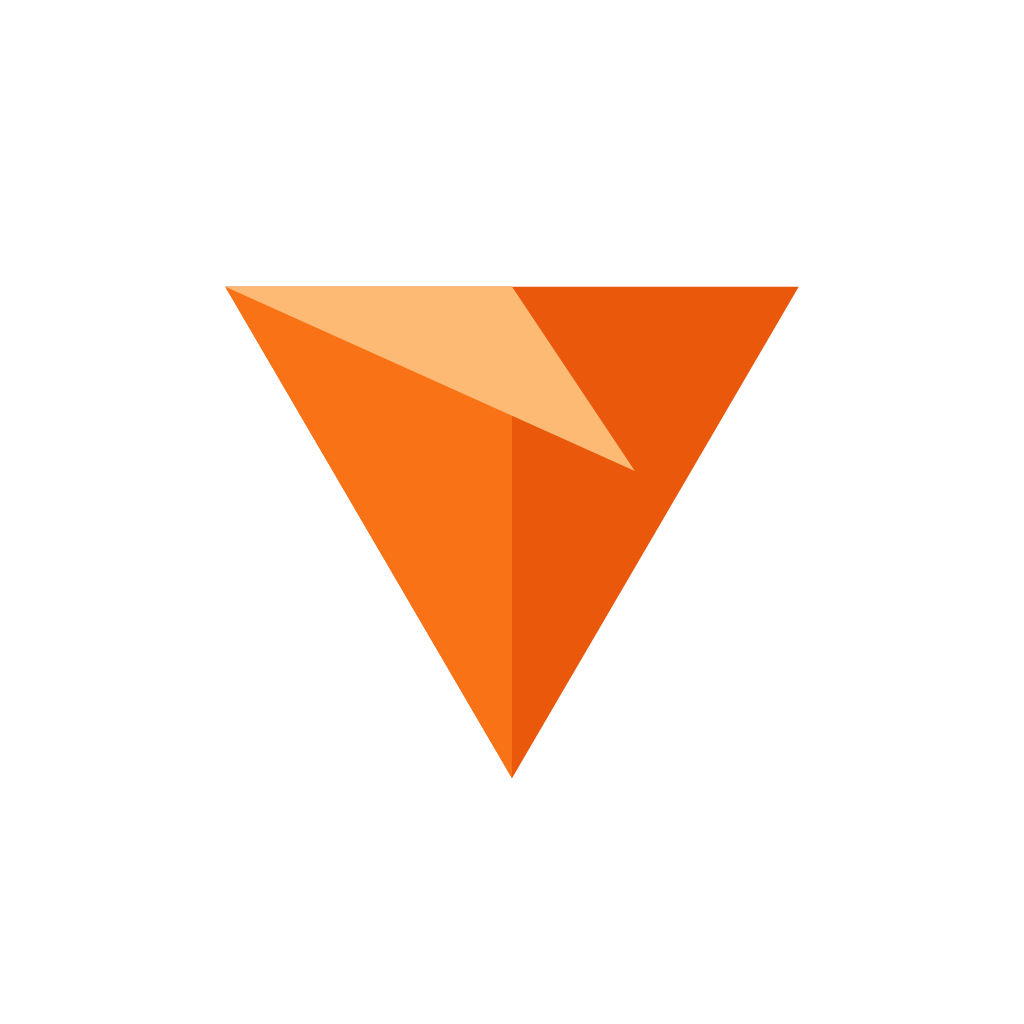
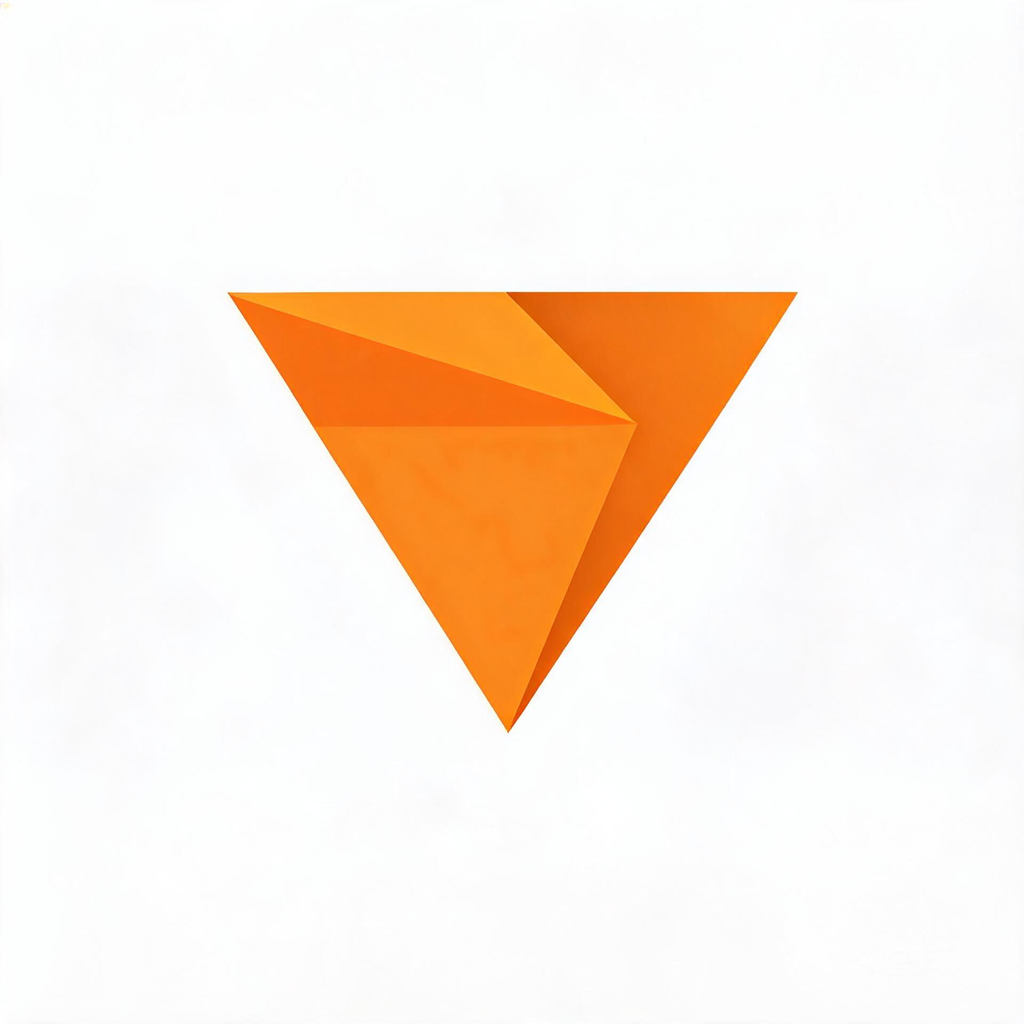
feat: 优化应用图标设计

diff --git a/frontend/scripts/generate-icons.js b/frontend/scripts/generate-icons.js
@@ -3,9 +3,13 @@ const require = createRequire(import.meta.url);
 const sharp = require('/root/.nvm/versions/node/v24.1.0/lib/node_modules/sharp');
 import { readFileSync } from 'fs';
 
+// PNG 源图：AI 生成的带渐变细节的原图（1024x1024），往下缩到各尺寸
+const sourceImage = '../.scratch/icon-design-4.jpg';
+
+// SVG 源文件：简化版，用于 favicon.svg
 const svg = readFileSync('./public/favicon.svg', 'utf-8');
 
-const sizes = [
+const pngSizes = [
   { name: 'favicon-16x16.png', size: 16 },
   { name: 'favicon-32x32.png', size: 32 },
   { name: 'apple-touch-icon.png', size: 180 },
@@ -15,20 +19,23 @@ const sizes = [
 ];
 
 async function generateIcons() {
-  for (const { name, size } of sizes) {
-    await sharp(Buffer.from(svg))
+  // 从 AI 原图往下缩生成 PNG（保留渐变细节）
+  for (const { name, size } of pngSizes) {
+    await sharp(sourceImage)
       .resize(size, size)
       .png()
       .toFile(`./public/${name}`);
     console.log(`✓ Generated ${name} (${size}x${size})`);
   }
 
-  // 生成 favicon.ico（直接使用 32x32 PNG，现代浏览器支持 PNG 格式的 ico）
-  await sharp(Buffer.from(svg))
+  // favicon.svg 由开发者手动维护（简化几何版）
+  console.log('✓ favicon.svg (保持手动维护的简化版)');
+
+  // favicon.ico 从 32x32 PNG 生成
+  await sharp('./public/favicon-32x32.png')
     .resize(32, 32)
     .png()
     .toFile('./public/favicon.ico');
-
   console.log('✓ Generated favicon.ico (32x32)');
 }
 
